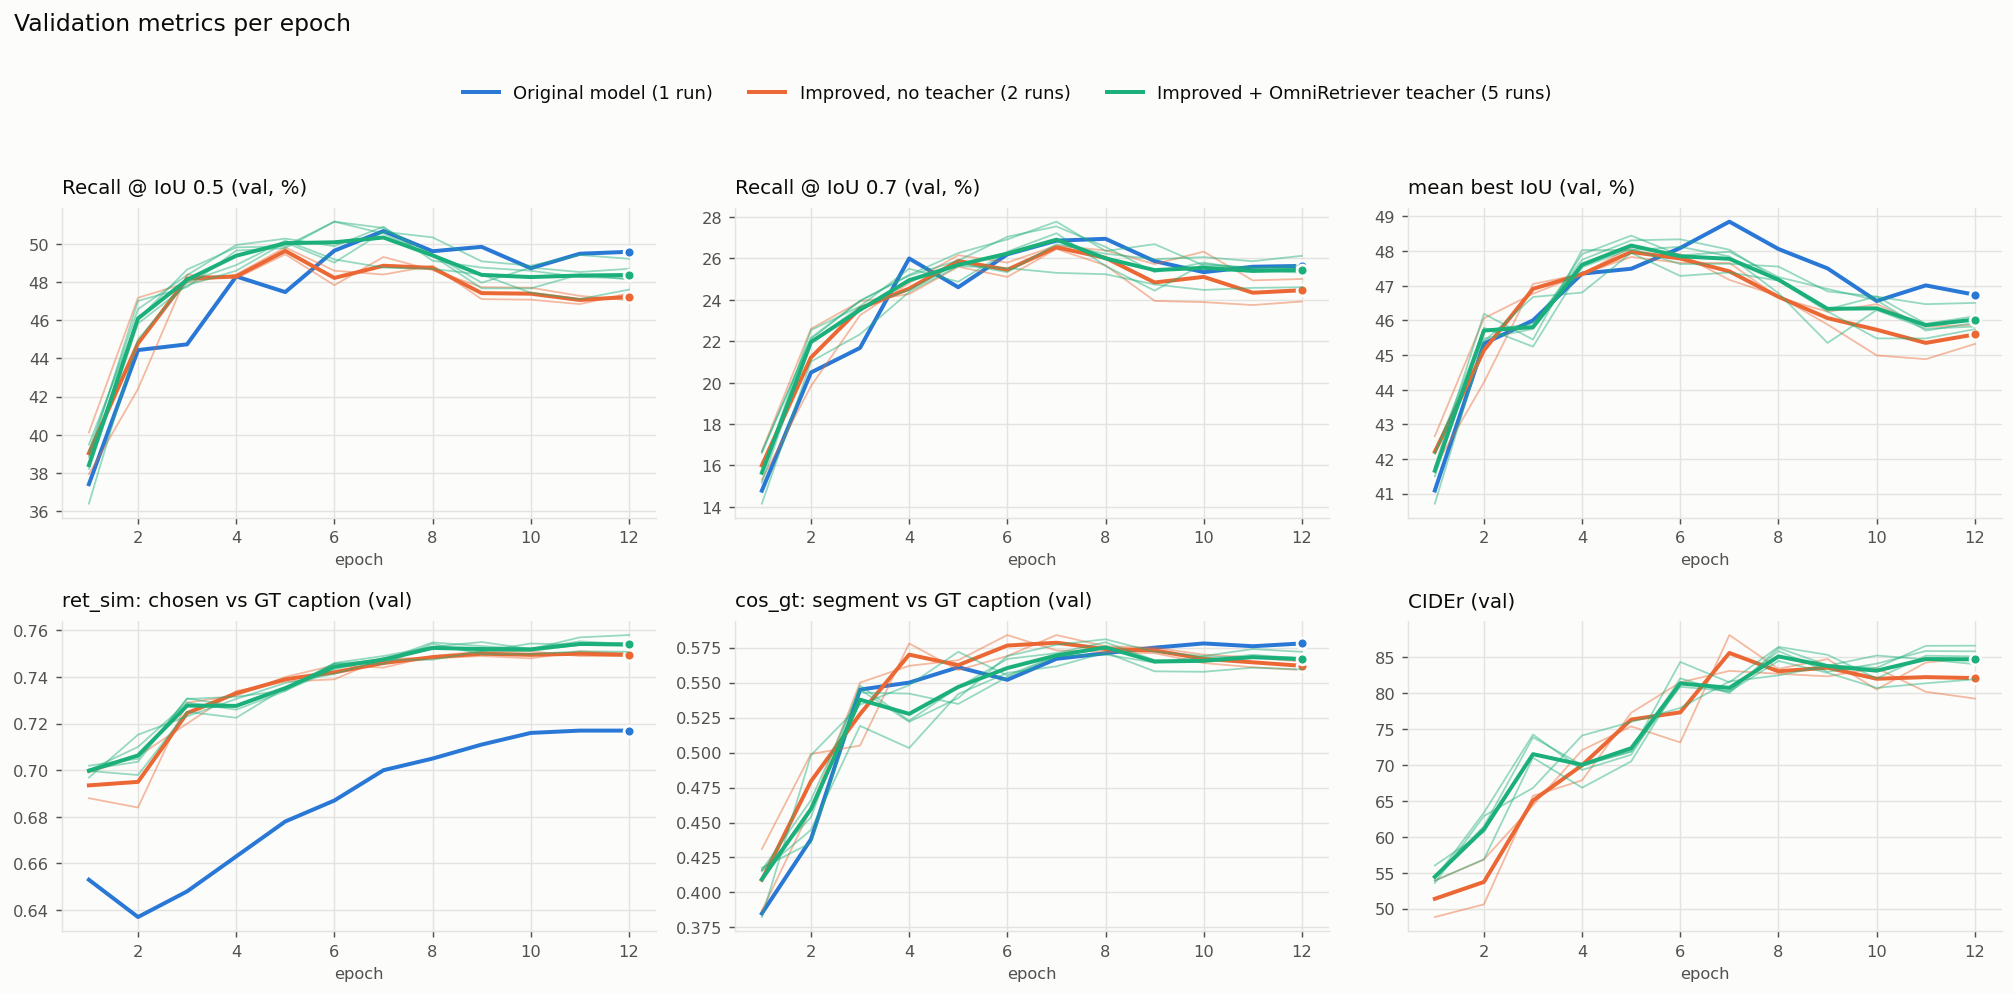
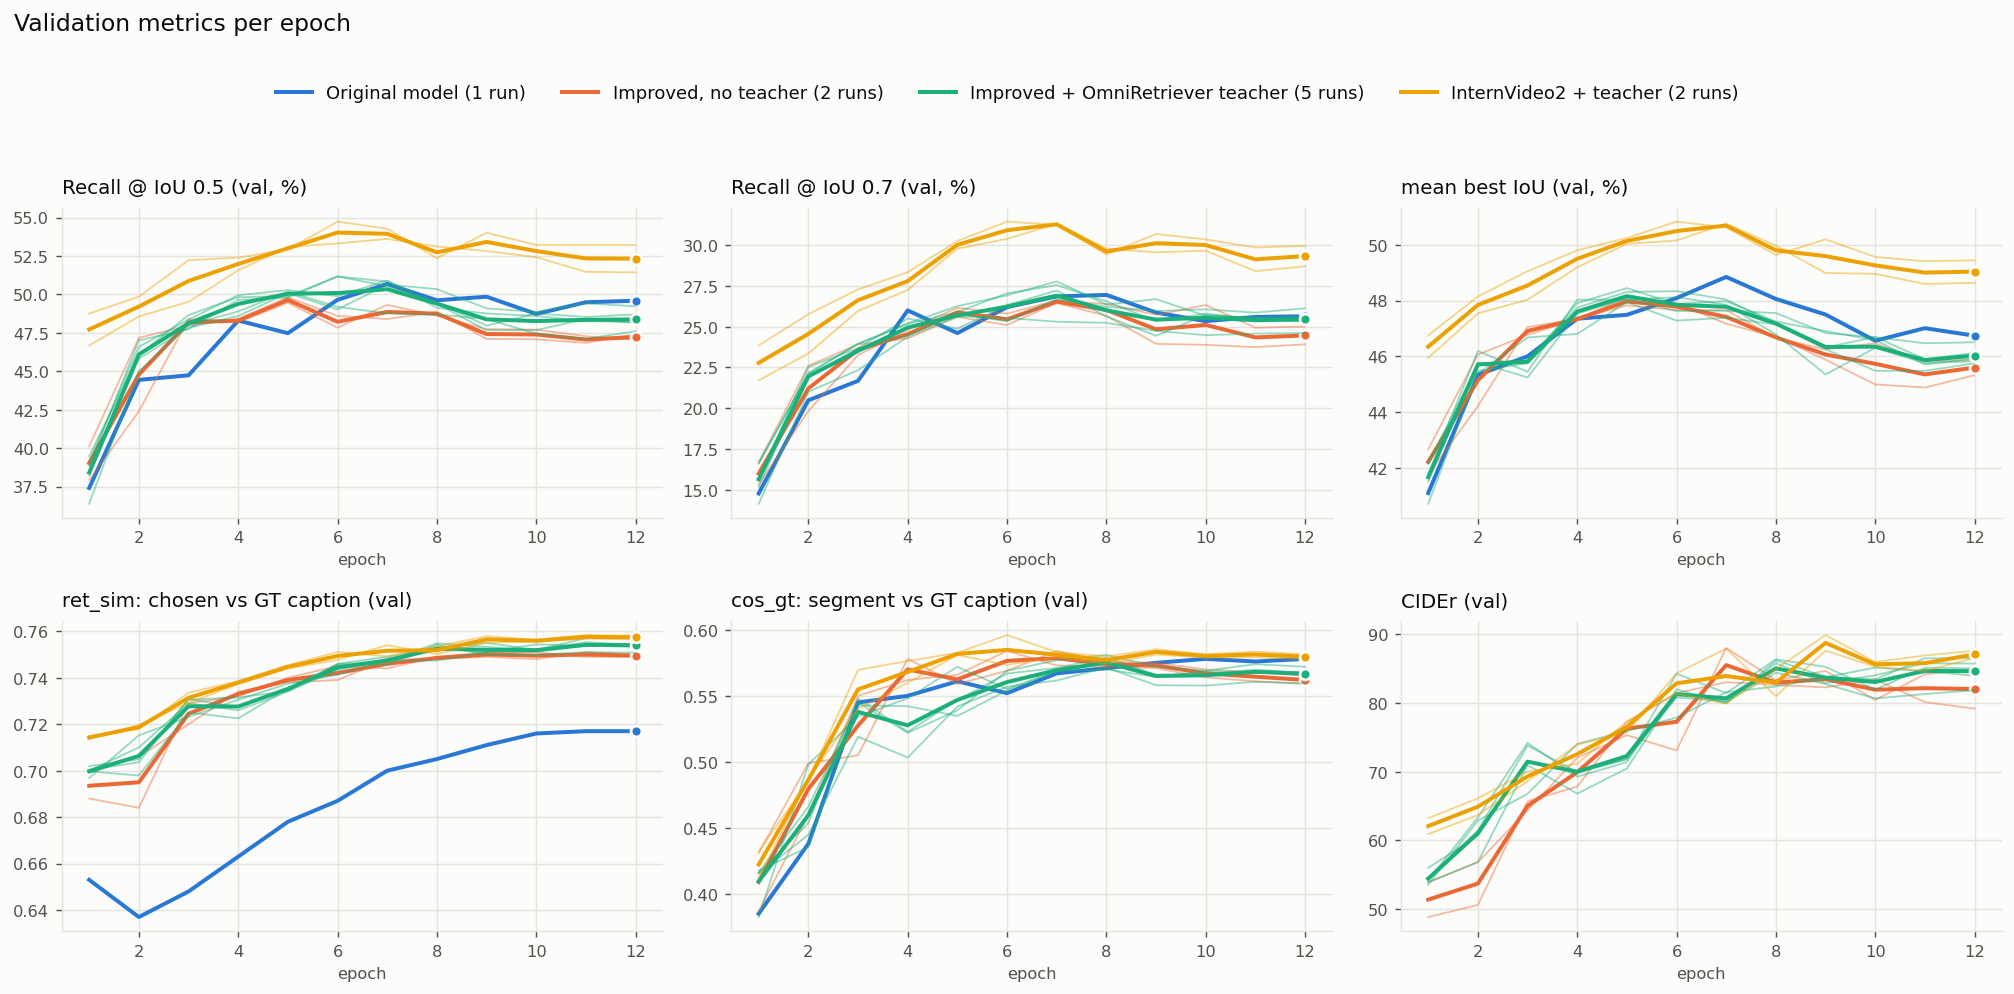
Plots: InternVideo2 group and a features comparison (ONE-PEACE vs InternVideo2, same teacher); notes

diff --git a/tools/plot_runs.py b/tools/plot_runs.py
@@ -1,10 +1,13 @@
-"""Plot training curves and final metrics: original model vs improved (no teacher) vs teacher.
+"""Plot training curves and final metrics of the runs, grouped.
 
   python tools/plot_runs.py
 
 Reads per-epoch metrics from experiments/runs/*.json, or from logs/<run>.log for runs
 whose record has no history (backfilled runs and the original-code baseline).
-Writes experiments/plots/{curves,final,losses}.png.
+Writes experiments/plots/:
+  {curves,final,losses}.png            original model -> improved -> teacher -> InternVideo2
+  features_{curves,final,losses}.png   input features under the same teacher setup, full data:
+                                       ONE-PEACE vs InternVideo2 (and both concatenated)
 
 Groups: each run is a thin line in its group's colour, the bold line is the group mean.
 The original model's ret_sim is its own top-1 pick (it had no consensus pick) and it
@@ -25,12 +28,25 @@ OUT = os.path.join(ROOT, 'experiments', 'plots')
 
 # reference palette, categorical slots 1-3 (validated all-pairs on the light surface)
 SURFACE, INK, INK2, GRID = '#fcfcfb', '#0b0b0b', '#52514e', '#e4e3df'
+# colour follows the entity in every figure: aqua = ONE-PEACE + teacher, yellow = InternVideo2 + teacher
 GROUPS = [  # (label, colour, runs)
     ('Original model', '#2a78d6', ['orig_baseline']),
     ('Improved, no teacher', '#eb6834', ['sched10', 'base_seed2']),
     ('Improved + OmniRetriever teacher', '#1baf7a',
      ['omni65', 'omni100', 'omni100_seed2', 'omni100_w05', 'omni100_avonly']),
+    ('InternVideo2 + teacher', '#eda100', ['iv2', 'iv2_seed2']),
 ]
+# the same teacher (full coverage) and data, only the input features differ
+FEATURE_GROUPS = [
+    ('ONE-PEACE', '#1baf7a', ['omni100', 'omni100_seed2']),
+    ('InternVideo2 v768', '#eda100', ['iv2', 'iv2_seed2']),
+    ('InternVideo2 v768 + v512', '#e87ba4', ['iv2_v512']),
+    ('InternVideo2 + ONE-PEACE', '#4a3aa7', ['iv2op']),
+]
+SHORT = {'Original model': 'Original', 'Improved, no teacher': 'No teacher',
+         'Improved + OmniRetriever teacher': 'Teacher', 'InternVideo2 + teacher': 'InternVideo2',
+         'ONE-PEACE': 'ONE-PEACE', 'InternVideo2 v768': 'IV2', 'InternVideo2 v768 + v512': 'IV2 +v512',
+         'InternVideo2 + ONE-PEACE': 'IV2 +OP'}
 HEAD_TO_KEY = {'event': 'ev_loss', 'reg': 'reg_loss', 'iou': 'iou_loss', 'embed': 'emb_loss',
                'span': 'span_loss', 'o_txt': 'omni_txt_loss', 'o_av': 'omni_av_loss', 'total': 'final_loss'}
 
@@ -96,7 +112,7 @@ def series(hist, runs, key):
     return out
 
 
-def plot_curves(hist, panels, fname, title):
+def plot_curves(hist, panels, fname, title, groups=GROUPS):
     n = len(panels)
     ncol = 3
     nrow = (n + ncol - 1) // ncol
@@ -104,7 +120,7 @@ def plot_curves(hist, panels, fname, title):
     axes = np.atleast_1d(axes).ravel()
     for ax, (key, label) in zip(axes, panels):
         style(ax, label)
-        for gname, color, runs in GROUPS:
+        for gname, color, runs in groups:
             ss = series(hist, runs, key)
             if not ss:
                 continue
@@ -118,7 +134,7 @@ def plot_curves(hist, panels, fname, title):
     for ax in axes[n:]:
         ax.set_visible(False)
     handles, labels = axes[0].get_legend_handles_labels()
-    fig.legend(handles, labels, loc='upper center', ncol=3, frameon=False, fontsize=10,
+    fig.legend(handles, labels, loc='upper center', ncol=min(len(groups), 4), frameon=False, fontsize=10,
                labelcolor=INK, bbox_to_anchor=(0.5, 1.0))
     fig.suptitle(title, color=INK, fontsize=13, x=0.01, ha='left', y=1.06)
     fig.tight_layout(rect=(0, 0, 1, 0.95))
@@ -126,20 +142,18 @@ def plot_curves(hist, panels, fname, title):
     plt.close(fig)
 
 
-def plot_final(hist, panels, fname, title):
+def plot_final(hist, panels, fname, title, groups=GROUPS):
     """Epoch-12 value of every run as a dot, group mean as a short line; no checkpoint picking.
 
     Dots and mean ticks instead of bars: the y axis is zoomed to the data, and bars on
     a truncated axis would exaggerate the gaps.
     """
-    short = {'Original model': 'Original', 'Improved, no teacher': 'No teacher',
-             'Improved + OmniRetriever teacher': 'Teacher'}
-    fig, axes = plt.subplots(1, len(panels), figsize=(2.9 * len(panels), 3.6), facecolor=SURFACE)
+    fig, axes = plt.subplots(1, len(panels), figsize=(3.2 * len(panels), 3.6), facecolor=SURFACE)
     for ax, (key, label) in zip(axes, panels):
         style(ax, label)
         ax.grid(axis='x', visible=False)
         allv, empty = [], []
-        for gi, (gname, color, runs) in enumerate(GROUPS):
+        for gi, (gname, color, runs) in enumerate(groups):
             vals = [y[-1] for _, _, y in series(hist, runs, key)]
             if not vals:
                 empty.append(gi); continue
@@ -152,11 +166,11 @@ def plot_final(hist, panels, fname, title):
         lo, hi = min(allv), max(allv)
         pad = (hi - lo) * 0.35 + 1e-6
         ax.set_ylim(lo - pad, hi + pad)
-        ax.set_xlim(-0.5, len(GROUPS) - 0.3)
+        ax.set_xlim(-0.5, len(groups) - 0.3)
         for gi in empty:   # placed in axes coordinates so it never stretches the figure
             ax.text(gi, 0.5, 'n/a', transform=ax.get_xaxis_transform(), ha='center', color=INK2, fontsize=8)
-        ax.set_xticks(range(len(GROUPS)))
-        ax.set_xticklabels([short[g[0]] for g in GROUPS], fontsize=8, color=INK2)
+        ax.set_xticks(range(len(groups)))
+        ax.set_xticklabels([SHORT[g[0]] for g in groups], fontsize=7.5, color=INK2, rotation=20)
     fig.suptitle(title, color=INK, fontsize=13, x=0.01, ha='left')
     fig.tight_layout()
     fig.savefig(os.path.join(OUT, fname), dpi=130, bbox_inches='tight', facecolor=SURFACE)
@@ -166,19 +180,22 @@ def plot_final(hist, panels, fname, title):
 def main():
     os.makedirs(OUT, exist_ok=True)
     hist = load_histories()
-    missing = [r for _, _, runs in GROUPS for r in runs if r not in hist]
+    missing = [r for groups in (GROUPS, FEATURE_GROUPS) for _, _, runs in groups for r in runs if r not in hist]
     if missing:
-        print('no history for:', ', '.join(missing))
-    plot_curves(hist, [('R@0.5', 'Recall @ IoU 0.5 (val, %)'), ('R@0.7', 'Recall @ IoU 0.7 (val, %)'),
-                       ('mIoU', 'mean best IoU (val, %)'), ('ret_sim', 'ret_sim: chosen vs GT caption (val)'),
-                       ('cos_gt', 'cos_gt: segment vs GT caption (val)'), ('CIDEr', 'CIDEr (val)')],
-                'curves.png', 'Validation metrics per epoch')
-    plot_curves(hist, [('ev_loss', 'event loss (train)'), ('reg_loss', 'boundary loss (train)'),
-                       ('final_loss', 'total loss (train, not comparable across groups)')],
-                'losses.png', 'Training losses per epoch')
-    plot_final(hist, [('R@0.5', 'R@0.5'), ('R@0.7', 'R@0.7'), ('mIoU', 'mIoU'),
-                      ('ret_sim', 'ret_sim'), ('cos_gt', 'cos_gt'), ('CIDEr', 'CIDEr')],
-               'final.png', 'Last epoch (12): every run as a dot, line = group mean')
+        print('no history for:', ', '.join(sorted(set(missing))))
+    curves = [('R@0.5', 'Recall @ IoU 0.5 (val, %)'), ('R@0.7', 'Recall @ IoU 0.7 (val, %)'),
+              ('mIoU', 'mean best IoU (val, %)'), ('ret_sim', 'ret_sim: chosen vs GT caption (val)'),
+              ('cos_gt', 'cos_gt: segment vs GT caption (val)'), ('CIDEr', 'CIDEr (val)')]
+    finals = [('R@0.5', 'R@0.5'), ('R@0.7', 'R@0.7'), ('mIoU', 'mIoU'),
+              ('ret_sim', 'ret_sim'), ('cos_gt', 'cos_gt'), ('CIDEr', 'CIDEr')]
+    for prefix, groups, what in (('', GROUPS, ''),
+                                 ('features_', FEATURE_GROUPS, ' - input features, same teacher, full data')):
+        plot_curves(hist, curves, prefix + 'curves.png', 'Validation metrics per epoch' + what, groups)
+        plot_curves(hist, [('ev_loss', 'event loss (train)'), ('reg_loss', 'boundary loss (train)'),
+                           ('final_loss', 'total loss (train, not comparable across groups)')],
+                    prefix + 'losses.png', 'Training losses per epoch' + what, groups)
+        plot_final(hist, finals, prefix + 'final.png',
+                   'Last epoch (12): every run as a dot, line = group mean' + what, groups)
     print('wrote', ', '.join(sorted(os.listdir(OUT))))
 
 

diff --git a/experiments/NOTES.md b/experiments/NOTES.md
@@ -28,6 +28,10 @@ Lessons from each change and what to combine next. The results table is in
 | Teacher at 100% coverage (`omni100`, `omni100_seed2`) | same as 65%: ret_sim 0.754–0.755, top-1 0.736–0.739 | yes |
 | Teacher weights 0.5/0.5 (`omni100_w05`) or av target only (`omni100_avonly`) | within noise of the default 0.2/0.2 | default |
 | Span-mean vector instead of single anchor point | no difference | kept, needed by the teacher |
+| InternVideo2 v768 + BEATs a768 instead of ONE-PEACE (`iv2`, `iv2_seed2`; same teacher, full data) | R@0.5 47.4–49.1 → 52.8–54.3, R@0.7 +5; ret_sim, top-1 within noise; CIDEr +2 | yes, API model |
+| Add the text-aligned v512 to v768 (`iv2_v512`) | between ONE-PEACE and v768 alone on R@0.5 (52.9); captions same | no |
+| InternVideo2 + ONE-PEACE concatenated (`iv2op`) | R@0.5 48.8: ONE-PEACE's large raw norms (~27) swamp the L2-normalised InternVideo2 rows; stuck near 35 until epoch 6 | no, ONE-PEACE dropped |
+| Teacher score added at caption choice (vs caption space only) | ret_sim changes by <= 0.003 in every run | API uses caption space only |
 | Original UniAV checkpoint (`--pretrain`) | worse twice: R@0.5 −3.7, CIDEr −17 | no |
 | `max_seq_len: 512` | same as 256 | no |
 | Hard NMS / lower NMS IoU | worse than soft-NMS 0.7 | no |
